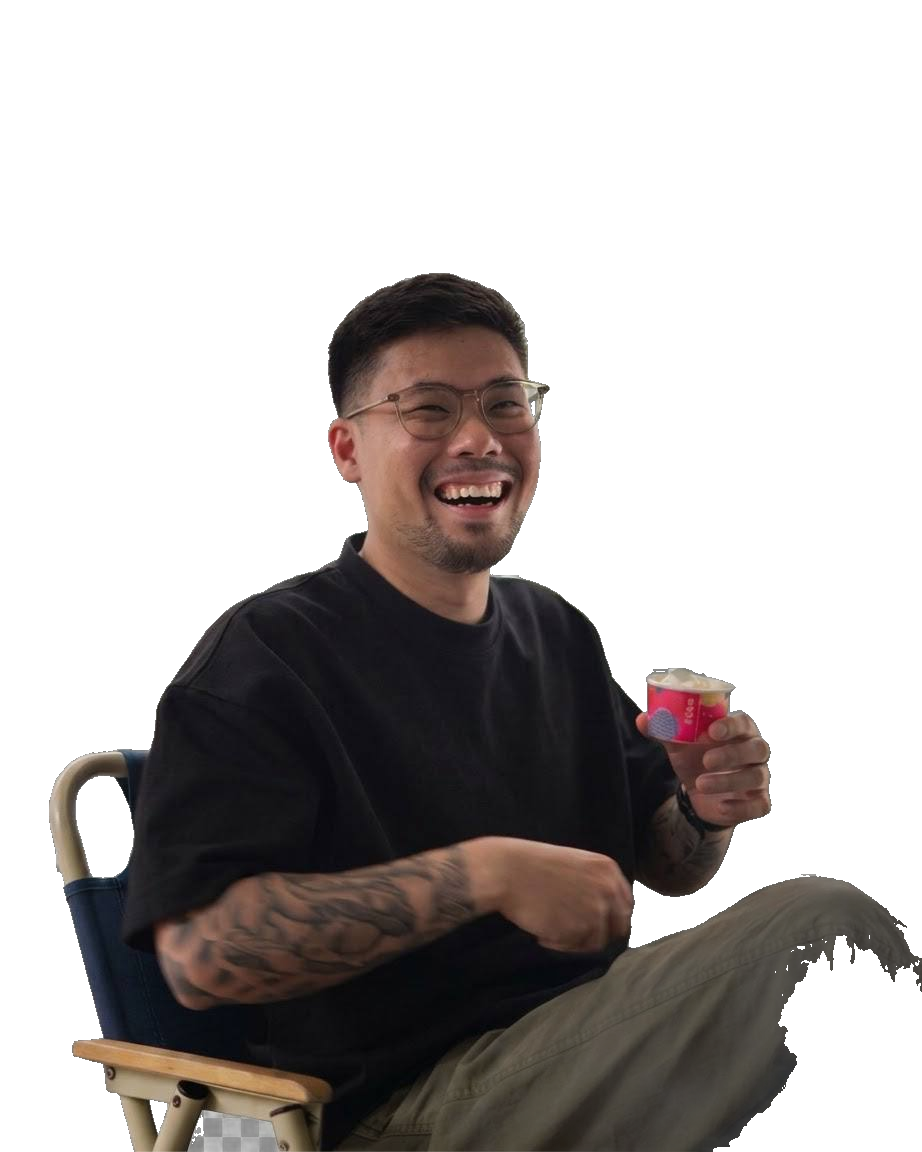
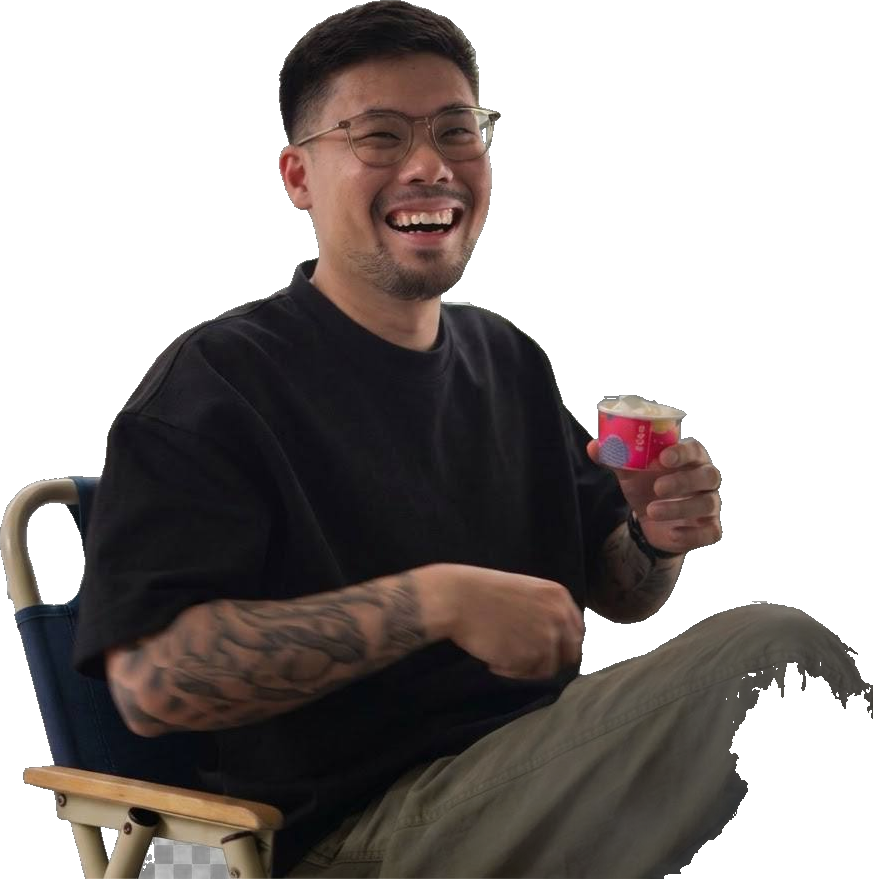
Align portrait head line via trimmed cutouts; pure black background
All six PNGs cropped to content so one CSS height (80vh) puts every
head on the same line under the wordmark. --bg to #000.

diff --git a/css/style.css b/css/style.css
@@ -1,6 +1,6 @@
 /* ============ PERSONA LIFESTYLE TATTOO ============ */
 :root {
-  --bg: #0c0b09;
+  --bg: #000000;
   --ink: #eae6dd;
   --mut: #8c877c;
   --line: rgba(234, 230, 221, 0.14);
@@ -224,7 +224,7 @@ body.body--green { background-color: var(--green); }
 }
 .orbit__img {
   position: absolute; left: 50%; bottom: 0;
-  height: 96vh; width: auto;
+  height: 80vh; width: auto; /* trimmed cutouts: head tops align at 20vh */
   transform: translateX(-50%) translateZ(0);
   user-select: none;
 }
@@ -251,7 +251,7 @@ body.body--green { background-color: var(--green); }
 @media (max-width: 900px) {
   .orbit { --orbR: 34vw; }
   .orbit__ch { font-size: calc(34vw * 0.1303); letter-spacing: 0.17em; }
-  .orbit__img { height: 72vh; }
+  .orbit__img { height: 66vh; }
 }
 
 /* ============ GETLAYERS SYSTEMS ============ */
@@ -348,7 +348,7 @@ body.body--green { background-color: var(--green); }
   display: flex; gap: 6px; flex-wrap: wrap;
 }
 .work__tags li {
-  background: rgba(12, 11, 9, 0.55);
+  background: rgba(0, 0, 0, 0.55);
   backdrop-filter: blur(6px);
   color: var(--ink);
   padding: 6px 10px;
@@ -508,7 +508,7 @@ body.body--green { background-color: var(--green); }
 .journal__sub { color: var(--mut); font-size: 14px; }
 
 /* ============ FOOTER ============ */
-.footer { position: relative; background: #080706; }
+.footer { position: relative; background: #000000; }
 .footer__band {
   height: 110px;
   background: linear-gradient(to bottom, var(--band), rgba(8, 7, 6, 0));

diff --git a/index.html b/index.html
@@ -15,7 +15,7 @@
   <link href="https://fonts.googleapis.com/css2?family=Chakra+Petch:wght@400;500;700&display=swap" rel="stylesheet">
   <link href="https://api.fontshare.com/v2/css?f[]=general-sans@400,500&display=swap" rel="stylesheet">
   <link href="https://fonts.googleapis.com/css2?family=Space+Grotesk:wght@300;400;500;600&family=JetBrains+Mono:wght@400;500&family=Onest:wght@600&display=swap" rel="stylesheet">
-  <link rel="stylesheet" href="css/style.css?v=57">
+  <link rel="stylesheet" href="css/style.css?v=59">
 </head>
 <body>
 
@@ -352,7 +352,7 @@
   <script src="https://cdn.jsdelivr.net/npm/gsap@3.12.5/dist/gsap.min.js"></script>
   <script src="https://cdn.jsdelivr.net/npm/gsap@3.12.5/dist/ScrollTrigger.min.js"></script>
   <script src="https://cdn.jsdelivr.net/npm/lenis@1.1.13/dist/lenis.min.js"></script>
-  <script src="js/main.js?v=57"></script>
+  <script src="js/main.js?v=59"></script>
 </body>
 </html>
 
